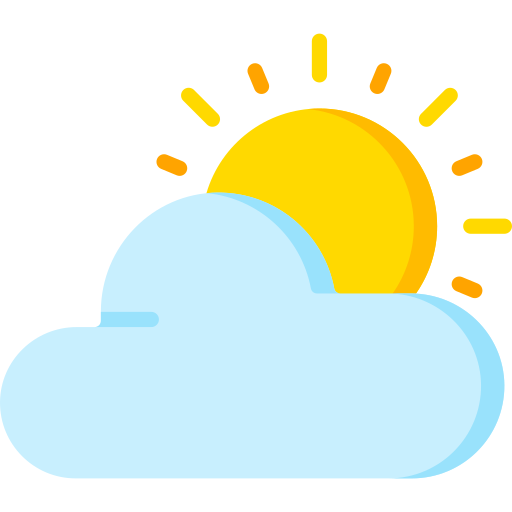
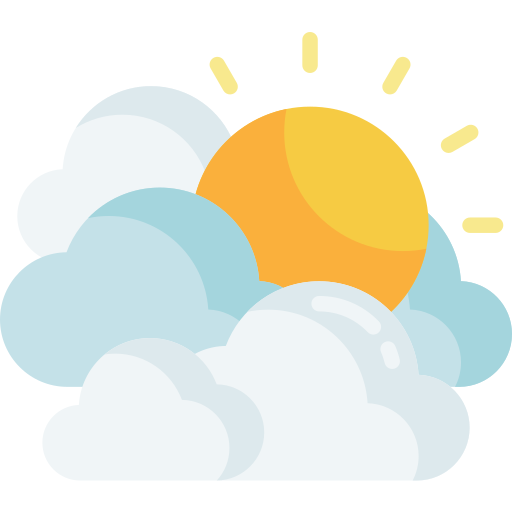
added dyanmic images and error handling

diff --git a/script.js b/script.js
@@ -1,24 +1,68 @@
-let search = document.getElementById("search");
-let city = document.querySelector(".city-name");
-let humidity = document.getElementById("humidity");
-let speed = document.getElementById("wind-speed");
-let temp = document.querySelector(".temp");
+// Function to fetch weather data and update UI
+function updateWeather(cityName) {
+  const apiKey = 'bc6cdf98ec47468598142603231609';
+  const apiUrl = `https://api.weatherapi.com/v1/current.json?key=${apiKey}&q=${cityName}`;
 
-search.addEventListener("click", function() {
-  let input = document.getElementById("input").value.trim();
+  fetch(apiUrl)
+    .then((response) => response.json())
+    .then((data) => {
+      // Update UI elements with weather data
+      document.querySelector(".city-name").textContent = data.location.name;
+      document.getElementById("humidity").textContent = data.current.humidity;
+      document.getElementById("wind-speed").textContent = data.current.wind_kph;
+      document.querySelector(".temp").innerHTML = `${data.current.temp_c}<sup>o</sup>C`;
+
+      const climate = data.current.condition.text;
+      console.log(climate);
+
+      // Update image based on weather condition
+      const img = document.getElementById("image");
+      if (climate.toLowerCase().includes("clear")) {
+        img.src = "icons/clear.png";
+      } else if (climate.toLowerCase().includes("sunny")) {
+        img.src = "/icons/sun.png";
+      } else if (climate.toLowerCase().includes("partly cloudy")) {
+        img.src = "/icons/partly-cloudy.png";
+      } else if (climate.toLowerCase().includes("snow")) {
+        img.src = "/icons/snowman.png";
+      } else if (climate.toLowerCase().includes("cloud")) {
+        img.src = "/icons/cloudy.png";
+      } else if (climate.toLowerCase().includes("mist")) {
+        img.src = "/icons/mist.png";
+      }
+    })
+    .catch((error) => {
+      console.log("There was an error:", error);
+      const errorbox = document.querySelector(".error");
+      errorbox.style.opacity = "1";
+
+      setTimeout(() => {
+        errorbox.style.opacity = "0";
+      }, 2000);
+    });
+}
+
+// Function to handle the search button click
+function handleSearch() {
+  const input = document.getElementById("input").value.trim();
   if (input !== "") {
-    let apiUrl = `https://api.weatherapi.com/v1/current.json?key=bc6cdf98ec47468598142603231609&q=${input}`;
+    updateWeather(input);
+  } else {
+    console.log("the input field can't be empty");
+    const emptyBox = document.querySelector(".empty-box");
+    emptyBox.style.opacity = "1";
 
-    fetch(apiUrl)
-      .then((response) => response.json())
-      .then((data) => {
-        city.textContent = data.location.name;
-        humidity.textContent = data.current.humidity;
-        speed.textContent = data.current.wind_kph;
-        temp.innerHTML = `${data.current.temp_c}<sup>o</sup>C`;
-      })
-      .catch((error) => {
-        console.log("There was an error:", error);
-      });
+    setTimeout(() => {
+      emptyBox.style.opacity = "0";
+    }, 2000);
   }
+}
+
+// Call the function to fetch weather data for a default location when the page loads
+window.addEventListener("load", function () {
+  const defaultCity = "India"; // You can set your desired default city
+  updateWeather(defaultCity);
 });
+
+// Attach the handleSearch function to the search button click event
+document.getElementById("search").addEventListener("click", handleSearch);

diff --git a/index.html b/index.html
@@ -11,13 +11,19 @@
     <link rel="stylesheet" href="style.css" />
   </head>
   <body>
+    <div class="error">
+      Can't find location. Please try again
+    </div>
+    <div class="empty-box">
+    The search field can not be empty
+    </div>
     <div class="container">
       <div class="search-box">
         <input type="text" id="input" placeholder="Enter a city name"/>
         <i class="fa-solid fa-magnifying-glass" id="search"></i>
       </div>
       <div class="img-box">
-        <img src="icons/cloudy.png" alt="weather" id="image" />
+        <img src="icons/clear.png" alt="weather" id="image" />
       </div>
       <div class="temp-box">
         <p class="temp"></p>

diff --git a/style.css b/style.css
@@ -19,6 +19,7 @@ body {
   justify-content: center;
   align-items: center;
   background-color: rgb(35, 35, 35);
+  position: relative;
 }
 
 .container{
@@ -87,4 +88,20 @@ i{
 
 sup{
     font-size: 25px;
+}
+
+.error, .empty-box{
+    position: absolute;
+    color: white;
+    top: 19%;
+    border: 1px solid rgb(77, 76, 76);
+    padding: 15px ;
+    font-size: 14px;
+    border-radius: 30px;
+    background: rgb(51, 51, 51);
+    opacity: 0;
+}
+
+.error:hover, .empty-box:hover{
+    cursor:default;
 }
